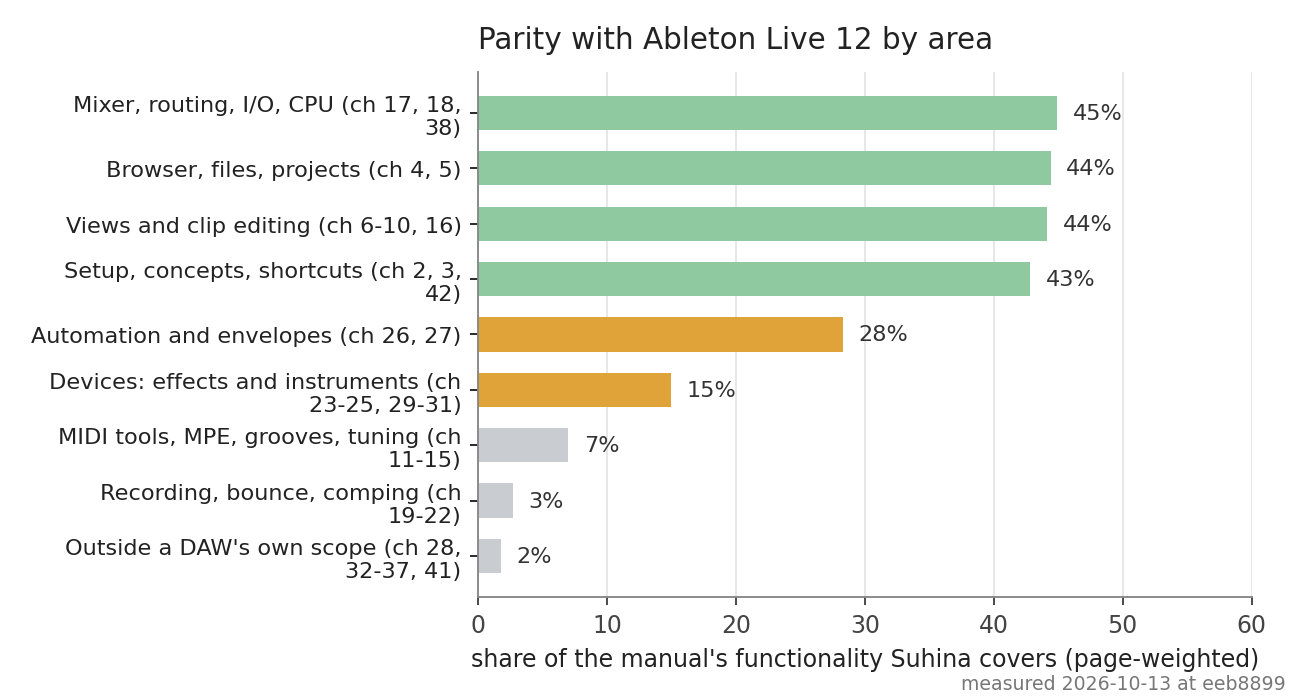
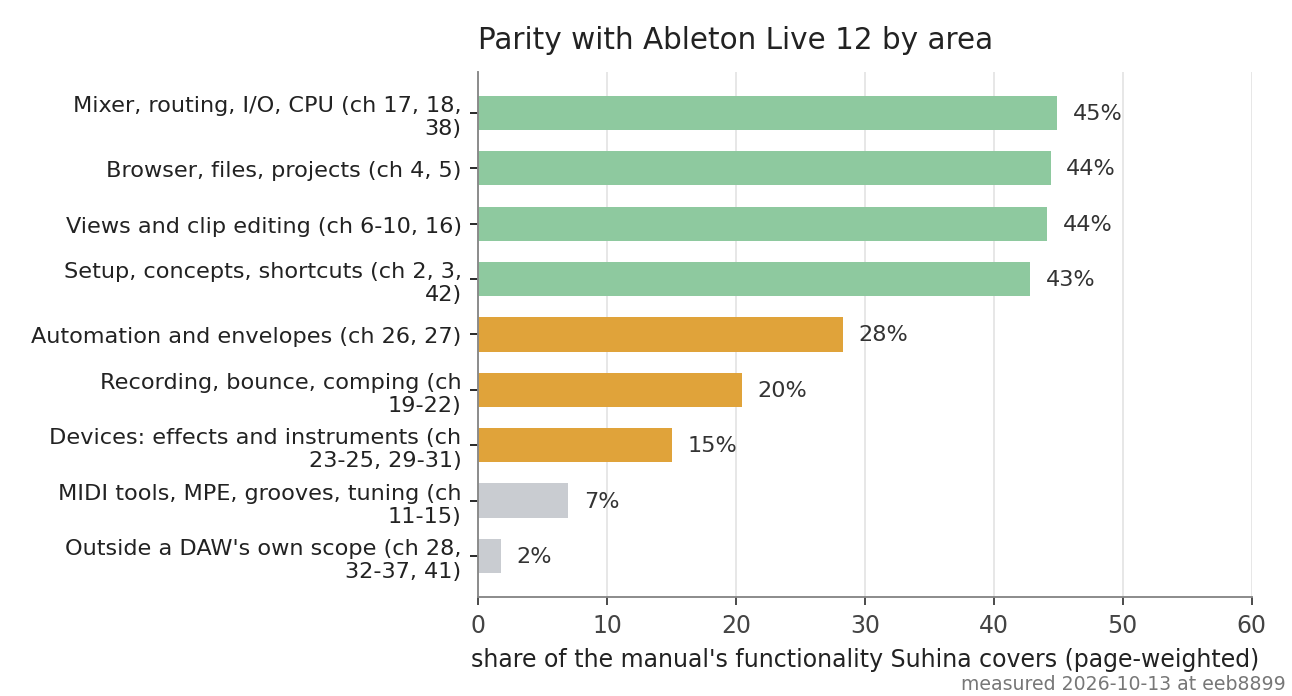
Docs: regenerate INDEX.md, commands.md, the parity report and figures, and last_verified dates

Changed region(s): [[0.031, 0.5431, 0.5882, 0.6638], [0.031, 0.694, 0.4954, 0.7543], [0.4954, 0.5129, 0.6192, 0.6034]]

diff --git a/docs/INDEX.md b/docs/INDEX.md
@@ -19,7 +19,7 @@ after every merge; do not edit by hand. Find a document by what you are about to
 | Document | Type | Status | Read when | What it says |
 |---|---|---|---|---|
 | [Architecture](architecture.md) | system | current | adding a crate or feature, where does code go, threads, audio thread, data flow, layers, player, controller | How the crates, threads and commands fit together, from a file to the speakers, and where new code goes |
-| [MCP server](mcp.md) | system | current | MCP, agents, audio output, MIDI input, arm, audio device, buffer size, ASIO, project_open, command_run, file roots, rmcp, suhina-cli mcp, several projects, project id, plug-in commands, device commands, library commands, add samples, track.add, clip.addFiles, preview, preview.noteOn, preview.noteOff, note.split, mute a note, note.setMuted, note.humanize, note.fitToScale, note.invert, note.reverse, note.legato, note.stretch, note.randomizeVelocity, note.rampVelocity, MIDI tools | The MCP server for agents: tools, file roots, errors and how to run it |
+| [MCP server](mcp.md) | system | current | MCP, agents, audio output, MIDI input, arm, record, recording, count-in, audio device, buffer size, ASIO, project_open, command_run, file roots, rmcp, suhina-cli mcp, several projects, project id, plug-in commands, device commands, library commands, add samples, track.add, clip.addFiles, preview, preview.noteOn, preview.noteOff, note.split, mute a note, note.setMuted, note.humanize, note.fitToScale, note.invert, note.reverse, note.legato, note.stretch, note.randomizeVelocity, note.rampVelocity, MIDI tools | The MCP server for agents: tools, file roots, errors and how to run it |
 | [plugdata and the device SDK: scope comparison](research/parity-plugdata-device-sdk.md) | system | current | plugdata, Pure Data parity, device SDK node coverage, patch devices | Scope comparison between plugdata's documented object ecosystem and Suhina's executable data-only SDK nodes |
 | [0001: A DAW-neutral project model](decisions/0001-daw-neutral-model.md) | decision | current | changing the model, track, channel, clip content, lane, pattern, importing another format, clip scale, default scale | Why tracks and mixer channels are separate and clips place shared contents, so several DAWs' projects fit |
 | [0002: Every action is a command](decisions/0002-commands.md) | decision | current | adding a command, undo, redo, command registry, params, CommandSpec | Why every action is a command with an id, typed params and snapshot undo, shared by CLI, MCP and UI |
@@ -70,6 +70,7 @@ after every merge; do not edit by hand. Find a document by what you are about to
 | [Missing files](spec/missing-files.md) | spec | draft | missing files, missing samples, file not found, relink, locate, find files, moved samples, project.missingFiles, project.relinkFiles, library.findFiles | What happens when a project's audio files cannot be found: the bar that says so, the panel that lists them and finds them by name (browser index, project folder, a chosen folder), and relinking in one undo step |
 | [NKS preset files](spec/nks-format.md) | spec | planned | NKS, nksf, nksfx, Native Instruments presets, preset previews, .previews folder, NISI, NICA, PLID, PCHK, MessagePack, Komplete Kontrol presets, plug-in state chunk | What is known of Native Instruments preset files (.nksf, .nksfx) and their audio previews, from public sources, and what must be observed on our own files before Suhina reads them |
 | [Plug-ins in the browser](spec/plugin-browsing.md) | spec | current | plug-in views, browser plug-ins, group by type, vendor, flat list, sorting, columns, VST3 sub-categories, CLAP features, favourites, tags | How the browser shows installed plug-ins: grouped by vendor or by type, or as one flat list with sortable columns; and how each format's own categories map to Suhina's groups |
+| [Recording](spec/recording.md) | spec | current | recording, record, take, record button, clip.record, transport.record, count-in, transport.setCountIn, record.state, MIDI recording, audio recording, Recorded folder, latency compensation of a take, overdub, loopback | How recording works: MIDI and audio takes into a clip slot or the arrangement, the count-in, where a played note or a recorded sound is placed (lined up with what was heard), the files audio takes are written to, and what happens when a disk fills or a device is lost |
 | [Sample map](spec/sample-map.md) | spec | draft | sample map, similarity, sound map, browse by sound, t-SNE, UMAP, point cloud, grid layout, similar samples, kick snare hat categories, audio features, MFCC, NKS, preset previews, soundmap commands | How the sample map behaves: samples laid out by how they sound, coloured by kind, as a cloud or a grid, previewed by pointing, dragged into the project; NKS preset previews in the same map |
 | [Suhina device graph (`.sd`)](spec/sd-device-format.md) | spec | current | .sd, Suhina device, device graph, device SDK, community effect, visual node, device UI | Version 4 of the data-only Suhina device graph format, SDK, track loading, and device revision migrations |
 | [Custom device panels](spec/sdk-custom-ui.md) | spec | current | custom SDK control, device background, icon, photo, texture, XY pad, drawing API, image asset | Self-contained device canvases, image assets, drawing expressions and programmable parameter controls |
@@ -171,6 +172,7 @@ Change this code, and check these documents.
 | `crates/engine/src/buses.rs` | [0004: Built-in effects and instruments](decisions/0004-built-in-devices.md), [Automation](spec/automation.md), [Cue output](spec/cue-output.md), [Key inputs and plug-in buses](spec/sidechain.md) |
 | `crates/engine/src/chain.rs` | [0004: Built-in effects and instruments](decisions/0004-built-in-devices.md), [0005: Edits while playing](decisions/0005-edits-while-playing.md), [0006: Plug-in hosting](decisions/0006-plug-in-hosting.md), [Automation](spec/automation.md), [Device groups](spec/device-groups.md), [Suhina device graph (`.sd`)](spec/sd-device-format.md), [Key inputs and plug-in buses](spec/sidechain.md) |
 | `crates/engine/src/chain_tests.rs` | [Suhina device graph (`.sd`)](spec/sd-device-format.md) |
+| `crates/engine/src/count_in.rs` | [Recording](spec/recording.md) |
 | `crates/engine/src/cpu.rs` | [Architecture](architecture.md), [MCP server](mcp.md), [UI: main window and Session view](spec/ui-session-view.md) |
 | `crates/engine/src/cue.rs` | [Cue output](spec/cue-output.md) |
 | `crates/engine/src/cue_tests.rs` | [Cue output](spec/cue-output.md) |
@@ -191,6 +193,8 @@ Change this code, and check these documents.
 | `crates/engine/src/plugin.rs` | [0005: Edits while playing](decisions/0005-edits-while-playing.md), [0006: Plug-in hosting](decisions/0006-plug-in-hosting.md), [Key inputs and plug-in buses](spec/sidechain.md) |
 | `crates/engine/src/plugin_params.rs` | [Automation](spec/automation.md) |
 | `crates/engine/src/preview.rs` | [0011: Previewing, and audio added to a playing project](decisions/0011-preview-and-added-audio.md), [Browser](spec/browser.md) |
+| `crates/engine/src/record.rs` | [0017: Inputs, arming and live latency](decisions/0017-inputs-and-latency.md), [Recording](spec/recording.md) |
+| `crates/engine/src/record_tests.rs` | [Recording](spec/recording.md) |
 | `crates/engine/src/sends.rs` | [0004: Built-in effects and instruments](decisions/0004-built-in-devices.md), [Sends and returns](spec/sends-and-returns.md) |
 | `crates/engine/src/sends_tests.rs` | [Sends and returns](spec/sends-and-returns.md) |
 | `crates/engine/src/stretch.rs` | [0003: Time-stretching and stretch modes](decisions/0003-time-stretching.md) |
@@ -258,6 +262,8 @@ Change this code, and check these documents.
 | `crates/session/src/preview.rs` | [0011: Previewing, and audio added to a playing project](decisions/0011-preview-and-added-audio.md), [Browser](spec/browser.md), [UI: clip editor (MIDI piano roll)](spec/ui-clip-editor.md) |
 | `crates/session/src/projects.rs` | [Architecture](architecture.md), [0002: Every action is a command](decisions/0002-commands.md), [0007: Several open projects](decisions/0007-several-open-projects.md), [0011: Previewing, and audio added to a playing project](decisions/0011-preview-and-added-audio.md) |
 | `crates/session/src/rack.rs` | [Architecture](architecture.md), [0006: Plug-in hosting](decisions/0006-plug-in-hosting.md), [Plug-ins in the browser](spec/plugin-browsing.md) |
+| `crates/session/src/record_writer.rs` | [Architecture](architecture.md), [Recording](spec/recording.md) |
+| `crates/session/src/recording.rs` | [Recording](spec/recording.md) |
 | `crates/session/src/relink.rs` | [Missing files](spec/missing-files.md) |
 | `crates/session/src/scales.rs` | [UI: clip editor (MIDI piano roll)](spec/ui-clip-editor.md) |
 | `crates/session/src/sends.rs` | [Sends and returns](spec/sends-and-returns.md) |
@@ -271,6 +277,7 @@ Change this code, and check these documents.
 | `crates/session/tests/launch_settings.rs` | [Clip launching](spec/clip-launching.md) |
 | `crates/session/tests/launcher.rs` | [Clip launching](spec/clip-launching.md) |
 | `crates/session/tests/meters.rs` | [Level meters](spec/level-meters.md) |
+| `crates/session/tests/recording.rs` | [Recording](spec/recording.md) |
 | `crates/session/tests/scenes.rs` | [Clip launching](spec/clip-launching.md) |
 | `crates/session/tests/sends.rs` | [Sends and returns](spec/sends-and-returns.md) |
 | `crates/session/tests/stems.rs` | [Stems files](spec/stems-format.md) |
@@ -307,6 +314,7 @@ Change this code, and check these documents.
 | `crates/ui/src/piano_roll_scale.rs` | [UI: clip editor (MIDI piano roll)](spec/ui-clip-editor.md) |
 | `crates/ui/src/pick.rs` | [Components](design/components.md) |
 | `crates/ui/src/project_dialog.rs` | [Components](design/components.md), [About Suhina](spec/about.md), [Backups](spec/backups.md) |
+| `crates/ui/src/record_controls.rs` | [Recording](spec/recording.md) |
 | `crates/ui/src/sample_map.rs` | [Sample map](spec/sample-map.md) |
 | `crates/ui/src/sample_map_crowd.rs` | [Sample map](spec/sample-map.md) |
 | `crates/ui/src/sample_map_panel.rs` | [Sample map](spec/sample-map.md) |
@@ -328,6 +336,7 @@ Change this code, and check these documents.
 | `crates/ui/tests/meters.rs` | [Level meters](spec/level-meters.md) |
 | `crates/ui/tests/mixer_strip.rs` | [UI: main window and Session view](spec/ui-session-view.md) |
 | `crates/ui/tests/open_recent.rs` | [Components](design/components.md) |
+| `crates/ui/tests/recording.rs` | [Recording](spec/recording.md) |
 | `crates/ui/tests/waveforms.rs` | [Waveforms](spec/waveforms.md) |
 | `crates/ui/themes/**` | [Design brief](design/brief.md) |
 | `devices/**` | [0004: Built-in effects and instruments](decisions/0004-built-in-devices.md) |

diff --git a/docs/research/parity-live-12.md b/docs/research/parity-live-12.md
@@ -70,14 +70,14 @@ documentation and UI). The scope decision it leads to is
 | Measure | Value |
 |---|---|
 | The manual it was measured from | 43 chapters, 1039 PDF pages, 999 pages of feature text |
-| Page-weighted coverage of everything the manual documents | **about 22 %** |
-| Same, without Push 1 and 2, Max for Live (+ its devices) and video | **about 26 %** |
+| Page-weighted coverage of everything the manual documents | **about 23 %** |
+| Same, without Push 1 and 2, Max for Live (+ its devices) and video | **about 27 %** |
 | Same, over the scope the roadmap aims at (also without accessibility) | **about 27 %** |
 | Weighting each chapter by its numbered sections instead of its pages | **17 %** (the two weightings agree) |
 | Numbered manual sections | **344**, of which **111 (32 %)** sit in chapters Suhina has not started at all |
 | Built-in devices | **8** (7 effects, 1 instrument) against Live's 63 (42 audio effects, 8 MIDI effects, 13 instruments) |
-| Commands | **191**, every one reachable from the UI, the CLI and MCP |
-| Still absent as whole features | MPE, Grooves, Tuning, Recording, Comping, Racks, Clip Envelopes, MIDI effects, Push, Link, video, accessibility |
+| Commands | **195**, every one reachable from the UI, the CLI and MCP |
+| Still absent as whole features | MPE, Grooves, Tuning, Comping, Racks, Clip Envelopes, MIDI effects, Push, Link, video, accessibility |
 <!-- parity:end -->
 
 "Page-weighted coverage" is the chapter table below aggregated: each chapter gets a coverage
@@ -145,7 +145,7 @@ documented behaviour that exists today.
 | 16 | Launching Clips | 12 | 77 % | partial | Launch quantisation (none, 8 bars..1/32, triplets), scenes (with their tempo and time signature), stop, loop, back to arrangement (the arrangement's dimmed lanes and the ruler's button), warped launched clips, follow actions (A/B by chance, linked or timed, jump to a slot; by command and in the detail area), samples looping in slots with or without a known tempo, a slot clip's loop switched on or off (clip.setLoop), launch modes (trigger, gate, toggle, repeat) with press and release, legato, per-clip launch quantisation, slots and scenes launched from computer keys. Missing velocity amount, clip offset/nudge, launching from live MIDI notes, follow-action multiplier and scene follow actions. |
 | 17 | Routing and I/O | 22 | 35 % | partial | Track output to main or a group (track.setOutput); MIDI controllers play the armed tracks, each track choosing its MIDI port and channel (track.setMidiInput); an audio input device with a channel or pair per track and monitoring Auto / In / Off (track.setAudioInput). No MIDI out, external instrument, resampling, sidechain, multi-timbral. |
 | 18 | Mixing | 18 | 59 % | partial | Faders (vertical in the Session view's channel strips), pan, mute, solo (exclusive/Ctrl), groups as buses nested up to 16 deep (solo and mute through the levels), master, latency compensation, sends pre or post fader into return tracks that run their device chains (track.setSend, track.setSendMode, return.add/remove/rename, send knobs in the Session mixer), level meters (peak, RMS, clip) per track, group, return and main, also over MCP, and a cue output on a second pair of the device (previews, per-track cue, cue volume); return tracks imported and drawn. Missing crossfader, track delay, send fields in the Arrangement headers. |
-| 19 | Recording New Clips | 13 | 0 % | absent | Arming and input monitoring exist (MIDI controllers, audio inputs); no audio or MIDI recording, no overdub, no count-in, no capture MIDI. |
+| 19 | Recording New Clips | 13 | 45 % | partial | Arming and input monitoring (MIDI controllers, audio inputs); MIDI and audio recording into an empty slot from the next launch boundary (ended on the next one, then played looped) or into the arrangement, several armed tracks at once, a count-in of 1, 2 or 4 bars, takes lined up with what was heard, audio written to WAV files off the audio thread, one undo step per take. Missing overdub, punch in/out, recording automation, capture MIDI, session record button. |
 | 20 | Bounce to Audio | 6 | 15 % | partial | Whole-project offline render to 32-bit float WAV (CLI/MCP), from an open project with its running plug-ins' state as heard; no per-track or group bounce, no paste. |
 | 21 | Comping | 6 | 0 % | absent | No take lanes, no comping. |
 | 22 | Stem Separation | 8 | 0 % | planned | Roadmap item (Demucs candidate, weights unaudited). The pipeline around a model (chunking, resampling) exists in crates/separation with a test backend; no model and nothing a user can run yet. |
@@ -183,7 +183,7 @@ documented behaviour that exists today.
 | Mixing, routing, I/O (ch 17, 18, 38) | 47 | 45 % |
 | Automation, envelopes (ch 26, 27) | 35 | 28 % |
 | Generative/transform (ch 11-15) | 67 | 7 % |
-| Recording, bounce, comp (ch 19-22) | 33 | 3 % |
+| Recording, bounce, comp (ch 19-22) | 33 | 20 % |
 | Outside scope (ch 28, 32-37, 41) | 175 | 2 % |
 | Setup, shortcuts (ch 2, 3, 42) | 61 | 43 % |
 <!-- parity:end -->
@@ -354,7 +354,7 @@ or does something Live does not:
 | Views and clip editing | 140 (ch 6-10, 16) | 44 % | MIDI note editor, clip view panels, time selections |
 | MIDI tools, MPE, grooves, tuning | 67 (ch 11-15) | 7 % | transformation and generative tools, MPE editing, groove pool, tuning systems |
 | Automation and clip envelopes | 35 (ch 26, 27) | 28 % | drawing and recording automation lanes, send and tempo automation, clip envelopes |
-| Recording, bounce, comping | 33 (ch 19-22) | 3 % | audio and MIDI recording, arming, overdub, count-in, take lanes, per-track bounce |
+| Recording, bounce, comping | 33 (ch 19-22) | 20 % | overdub, punch in and out, take lanes, comping, per-track bounce |
 | Mixing, routing, I/O | 47 (ch 17, 18, 38) | 45 % | crossfader, inputs and monitoring, resampling |
 | Outside a DAW's own scope | 175 (ch 28, 32-37, 41) | 2 % | video, Max for Live, Push 1 and 2, Link, accessibility - ADR 0016 leaves most of this out |
 <!-- parity:end -->

diff --git a/docs/commands.md b/docs/commands.md
@@ -109,6 +109,10 @@ these same commands ([ADR 0002](decisions/0002-commands.md), [`mcp.md`](mcp.md))
 | `track.setMidiInput` | edit | Choose which MIDI controllers a track hears while armed: every port, one port by name (from midi.inputs), or none, and every channel or one; saved with the project | `track` (track): track id or name, from project.tracks; `port` (text, optional): "all" (the default), "none", or a port's name; left out keeps the port; `channel` (integer, optional): 1 to 16, or 0 for every channel; left out keeps the channel |
 | `track.setAudioInput` | edit | Choose which channels of the audio input device a track hears (none, one channel, or a stereo pair) and when it is heard through the track: auto (while armed), in (always) or off; saved with the project | `track` (track): track id or name, from project.tracks; `input` (text, optional): "none", a channel from 1 ("3"), or a pair ("1/2"); left out keeps it; `monitor` (text, optional): auto (the default), in or off; left out keeps it |
 | `track.setArm` | transport | Arm a track or disarm it: an armed track's instrument plays what the MIDI inputs play (midi.inputs), whether the transport runs or not. Arming is not an edit: it is not undone and not saved | `track` (track): track id or name, from project.tracks; `armed` (bool): true arms the track; `exclusive` (bool, optional): true also disarms every other track (false by default) |
+| `clip.record` | transport | Record into an empty clip slot of an armed track from the next launch boundary (after the count-in when the transport is stopped); clip.launch on the slot ends the take at the next boundary and plays it, looped | `track` (track): track id or name, from project.tracks; `scene` (integer): scene number, from 1, as in project.launcher |
+| `transport.record` | transport | Record every armed track into the arrangement from the playhead (from the play start marker after the count-in when stopped), or end every take; each take is one undo step | `on` (bool): true starts recording, false ends every take |
+| `transport.setCountIn` | transport | Set the count-in recording waits for when it starts the transport: 0 (none), 1, 2 or 4 bars of clicks | `bars` (integer): 0, 1, 2 or 4 |
+| `record.state` | transport | What is being recorded: whether the arrangement records, each take (track, slot or arrangement, start and end beat, notes, frames, file), the count-in setting and the beats it has left | none |
 | `clip.launch` | transport | Launch the clip in a track's slot at the next quantisation boundary (an empty slot with a stop button stops the track) | `track` (track): track id or name, from project.tracks; `scene` (integer): scene number, from 1, as in project.launcher |
 | `clip.setLoop` | edit | Switch a clip's loop (an arrangement clip by index, or the clip in a track's slot by scene): on, it repeats its whole length, or the loop it has; off, it plays once. With start and end, the loop is set to that part of the content and turned on | `track` (track): track id or name, from project.tracks; `index` (integer, optional): an arrangement clip's index on the track, from project.clips; `scene` (integer, optional): instead of index: the clip in the track's slot of this scene, from 1; `loop` (bool, optional): true loops the clip, false plays it once; needed unless start or end is given; `start` (number, optional): the loop's start in content beats, 0 to 120000; `end` (number, optional): the loop's end in content beats, after start, at most 120000 |
 | `clip.setLength` | edit | Set how long a clip plays, in beats (an arrangement clip by index, or a slot's clip by scene); an arrangement clip keeps its start and may not run into the next clip on its lane | `track` (track): track id or name, from project.tracks; `index` (integer, optional): an arrangement clip's index on the track, from project.clips; `scene` (integer, optional): instead of index: the clip in the track's slot of this scene, from 1; `length` (number): the new length in beats, above 0 and at most 120000 |
